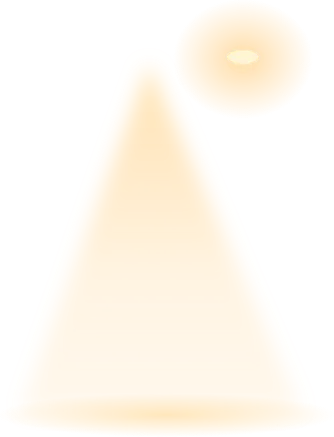
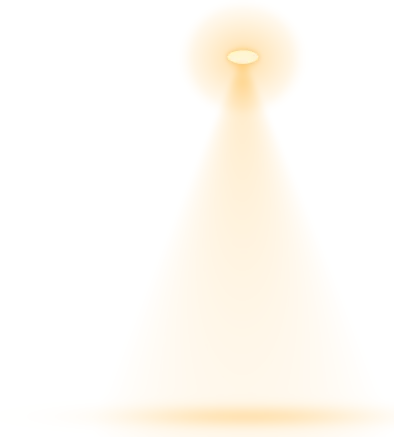
Tela inicial nova: barra no topo, cartão do mapa com 'Acessar mapa', arte e título 40 px abaixo (igual na tela de toque para começar); luz do poste sai da lâmpada; passo a passo da chefe adaptado (#142)
Claude-Session: https://claude.ai/code/session_015tfXN2LHrSJNSLNMARGbDc

diff --git a/js/47-trilha.js b/js/47-trilha.js
@@ -35,8 +35,8 @@ const stTxt=n=>n.soon?'Em breve':n.done?('✓ Concluído'+(n.nota?' · nota '+n.
 let Z=1,CX=217.5,CY=220,TOK=0,SY=280;
 const sleep=ms=>new Promise(r=>setTimeout(r,ms));
 const LOCK='<svg viewBox="0 0 24 24"><rect x="5" y="11" width="14" height="9" rx="2"/><path d="M8 11V8a4 4 0 018 0v3"/></svg>';
-function camApply(){const g=document.getElementById('trg');if(!g)return false;g.setAttribute('transform','translate('+(217.5-Z*CX)+','+(SY-Z*CY)+') scale('+Z+')');
- const d=.5+.8*Math.min(1,(Z-1)/3);document.querySelectorAll('#trg .tp').forEach(p=>{p.setAttribute('transform','translate('+p.dataset.x+','+p.dataset.y+') scale('+(d/Z)+')');p.style.setProperty('--lo',Z>2.4?1:0)});return true}
+function camApply(g,z,cx,cy,sy){g=g||document.getElementById('trg');if(!g)return false;z=z||Z;cx=cx==null?CX:cx;cy=cy==null?CY:cy;sy=sy||SY;g.setAttribute('transform','translate('+(217.5-z*cx)+','+(sy-z*cy)+') scale('+z+')');
+ const d=.5+.8*Math.min(1,(z-1)/3);g.querySelectorAll('.tp').forEach(p=>{p.setAttribute('transform','translate('+p.dataset.x+','+p.dataset.y+') scale('+(d/z)+')');p.style.setProperty('--lo',z>2.4?1:0)});return true}
 function camTo(z,x,y,ms){const my=++TOK;return new Promise(res=>{const z0=Z,x0=CX,y0=CY,t0=performance.now();const e=t=>t<.5?2*t*t:1-Math.pow(-2*t+2,2)/2;(function f(now){if(my!==TOK||!camApply()){res();return}const t=Math.min(1,(now-t0)/ms),k=e(t);Z=z0+(z-z0)*k;CX=x0+(x-x0)*k;CY=y0+(y-y0)*k;camApply();t<1?requestAnimationFrame(f):res()})(t0)})}
 function pinHTML(c,st){const k='#'+(st==='lk'?'3a3a42':st==='dn'?'3fbf72':'f0c75e');const lab=(c.side==='l'?-17:17),an=c.side==='l'?'end':'start';
  return `<g class="tp ${st}" id="trp${c.ci}" data-x="${c.x}" data-y="${c.y}" onclick="trPin(${c.ci})" style="--k:${k}"><circle class=pls r=13 /><clipPath id="trcp${c.ci}"><circle r="11"/></clipPath><circle class=pr r=13 /><image href="${capa(c.pin)}" x=-11 y=-11 width=22 height=22 clip-path="url(#trcp${c.ci})" preserveAspectRatio="xMidYMid slice"/><text class=pk y=4 text-anchor=middle font-size=12>${st==='lk'?'🔒':st==='dn'?'✓':''}</text><text class="tl s" x=${lab} y=-3 text-anchor=${an}>CAP. ${c.ci+1}</text><text class=tl x=${lab} y=8 text-anchor=${an}>${esc(c.n)}</text></g>`}
@@ -62,7 +62,9 @@ ${nc?`<button class="trgo nx" onclick="trCity(${nc.ci})"><span><small>PRÓXIMA C
 window.trMock=()=>{const L=trNodes(),dn=L.filter(n=>n.done).length,CS=cities(),nx=trNext(),t=(nx&&CS[nx.ci])||CS[0],nc=CS[t.ci+1]||CS[0];
  const map=mapHTML(CS,CS.length).replace('viewBox="0 0 435 560"','viewBox="0 0 435 330"');
  return `<div class="tmk tma"><div class=trh><div><b>${dn} de ${L.length}</b><small>etapas concluídas</small></div><span class=trinfo>i</span></div><div class=trmw>${map}</div><div class=trgo><span><small>VOCÊ PAROU EM</small><b>${esc(t.n)} (${t.uf})</b></span><em>${t.dn}/${t.ns.length+(t.soon?1:0)} · Entrar</em></div><div class="trgo nx"><span><small>PRÓXIMA CIDADE</small><b>${esc(nc.n)} (${nc.uf})</b></span><em>${nc.dn}/${nc.ns.length+(nc.soon?1:0)}</em></div></div>`};
-window.trMockCam=()=>{if(!document.querySelector('.tma #trg'))return;const CS=cities(),nx=trNext(),t=(nx&&CS[nx.ci])||CS[0];TOK++;SY=165;Z=3.6;CX=(t.x+312)/2;CY=(t.y+308)/2;camApply()};
+window.trMockCam=()=>{const CS=cities(),nx=trNext(),t=(nx&&CS[nx.ci])||CS[0];
+ document.querySelectorAll('.tma .trmw g[id=trg]').forEach(g=>camApply(g,3.6,(t.x+312)/2,(t.y+308)/2,165));
+ document.querySelectorAll('.hth g.trg').forEach(g=>camApply(g,3,(t.x+312)/2,(t.y+308)/2,165))};
 /* texto de ajuda: fica escondido atrás do botão "i" e abre num modal com fundo desfocado */
 window.trInfo=()=>{if(document.getElementById('trim'))return;const o=document.createElement('div');o.id='trim';o.setAttribute('role','dialog');o.setAttribute('aria-label','Como funciona a trilha');o.onclick=e=>{if(e.target===o)trInfoX()};
  o.innerHTML='<div class=trimc><small>TRILHA DE CASOS</small><h3>Como funciona</h3><p>Cada capítulo acontece numa <b>cidade do Brasil</b>. Toque numa cidade do mapa para ver os casos dela: casos comuns, rápidos, linha do tempo e o <b>Arquivo Reservado</b>, que fecha o capítulo.</p><p>Todas as cidades e casos estão abertos: escolha por onde começar. Qualquer caso concluído por outra via também conta na trilha.</p><button class=trplay onclick="trInfoX()">Entendi</button></div>';
@@ -103,8 +105,14 @@ window.trClose=()=>{const o=document.getElementById('trc');if(o)o.remove()};
 /* o capítulo some quando a tela do Arquivo/Trilha deixa de estar aberta (ex.: ao começar um caso) */
 {const _r=render;render=function(){const r=_r.apply(this,arguments);try{trMockCam()}catch(e){}const o=document.getElementById('trc');if(o&&!(MENU&&ARQ&&RQT===6))o.remove();const m=document.getElementById('trim');if(m&&!(MENU&&ARQ&&RQT===6))m.remove();return r}}
 
-/* botão principal da tela inicial: segue a trilha (no modo Sozinho) */
-window.trPlay=()=>{if(!solo())return '';const n=trNext();const pi='<span class=pi><svg viewBox="0 0 24 24"><path d="M7 4v16l13-8z"/></svg></span>';
- if(!n)return `<button class=play onclick="ARQ=1;RQT=6;render()">${pi}<span class=pt><small>TRILHA CONCLUÍDA</small><b>Rever o mapa</b></span></button>`;
- return `<button class=play onclick="trStart(${n.i})">${pi}<span class=pt><small>${n.p?'CONTINUAR':n.i===0?'COMECE POR AQUI':'PRÓXIMO CASO'}</small><b>${esc(n.t)}</b></span>${n.k==='c'&&n.p?`<span class=pp><i style="width:${n.p}%"></i></span>`:''}</button>`};
+/* tela inicial: barra no topo (investigador e atalhos) e cartão do mapa embaixo */
+const GALS='<svg viewBox="0 0 24 24"><circle cx="12" cy="9" r="6"/><path d="M8.5 14L7 22l5-3 5 3-1.5-8"/></svg>';
+window.trHomeTop=()=>{const nm=esc(((META.pl&&META.pl.n)||'Investigador').slice(0,14)),du=window.amMode&&amMode()!=='solo';
+ return `<div class=htop><button class=hinv onclick="plOpen()" aria-label="Investigador"><span class=hav>${av('det',30)}</span><span>${nm}</span></button><div class=hic><button class="${du?'on':''}" onclick="amDupla()" aria-label="Modo dupla">${eic('👥')}</button><button onclick="GAL=1;render()" aria-label="Galeria">${GALS}</button><button onclick="SET=1;render()" aria-label="Ajustes">${eic('⚙')}</button></div></div>`};
+window.trHomeCard=()=>{if(!solo()){const m=window.amMode?amMode():'rev',nme=(window.AMN&&AMN[m]&&AMN[m][1])||'Dupla';
+  return `<div class=hcard><span class="hth hdu">${eic('👥')}</span><div class=hct><small>MODO DUPLA</small><b>${esc(nme)}</b><span>Casos principais, rápidos e linha do tempo</span><button class=hgo onclick="ARQ=1;render()">ACESSAR CASOS</button></div></div>`}
+ const L=trNodes(),dn=L.filter(n=>n.done).length,CS=cities(),nx=trNext(),t=(nx&&CS[nx.ci])||CS[CS.length-1];
+ const map=mapHTML(CS,CS.length).replace('<svg id=trsvg viewBox="0 0 435 560"','<svg viewBox="0 0 435 330" preserveAspectRatio="xMidYMid slice"').replace('<g id=trg>','<g class=trg>');
+ return `<div class=hcard><span class=hth>${map}</span><div class=hct><small>${dn?'SEU MAPA':'COMECE POR AQUI'}</small><b>${esc(t.n)} (${t.uf})</b><span>${t.dn} de ${t.ns.length+(t.soon?1:0)} casos · ${dn} de ${L.length} no total</span><button class=hgo onclick="ARQ=1;RQT=6;render()">ACESSAR MAPA</button></div></div>`};
+window.trPlay=()=>trHomeCard();
 })();

diff --git a/js/22-onboarding.js b/js/22-onboarding.js
@@ -1,16 +1,15 @@
 PDX.chefe={e:'almond',n:'pointed',b:'arch',bt:.8,lp:1,mw:.95,sp:7.8,sk:'#d9b496',sh:'#b89478',hc:'#2a1d12',hs:'swept',bg:['#2a3a40','#0b151c'],deco:'',out:'blazer',oc:'#1d3a3f',oc2:'#ece7dc',ic:'#3a2a1c',age:47,g:'',ex:['lipstick:#8a3a44','earrg','smile'],ms:.6};VFEM.add('chefe');
 const ONTALK={talk:["Então é você. A Corregedoria disse que ia mandar alguém bom, e eu não costumo ouvir isso à toa.","Eu sou a superintendente Regina Vaz, chefe da Divisão de Homicídios do SISP, o Sistema de Investigação Policial. A partir de hoje, sou a sua chefe. E quem cobra relatório.","Aqui o trabalho é minucioso: cada caso chega com suspeitos mentindo e provas que ninguém olhou direito.","Antes de tudo, preciso registrar você no sistema."],talk2:["Prazer, {n}. Registro aberto.","Agora o crachá: o sistema precisa de uma foto sua. Escolha a sua aparência. Dá para mudar depois."]};
 const ONTOUR=[
-{s:'.play',t:"Este é o seu painel, {n}. Toque no nome do caso para seguir a trilha: ele leva direto à investigação da vez e lembra onde você parou."},
-{s:'.tl3 .tile:nth-child(1)',t:"O Arquivo é o mapa do Brasil: cada cidade tem os seus casos, e você segue de cidade em cidade. Vou mostrar como ele funciona."},
+{s:'.hcard',t:"Este é o seu painel, {n}. O cartão mostra a cidade onde você parou. Toque em Acessar mapa para continuar a investigação."},
 {a:1,s:'.tma .trmw',t:"Este é o mapa da trilha. Cada capítulo acontece numa cidade do Brasil, e o mapa mostra onde você parou."},
 {a:1,s:'.tma .trgo:not(.nx)',t:"Aqui fica a cidade atual. Toque para entrar e escolher o caso. Em cada cidade há casos comuns, rápidos, de linha do tempo e um Arquivo Reservado, que fecha o capítulo."},
 {a:1,s:'.tma .trgo.nx',t:"Aqui, a próxima cidade. Todas já estão abertas, então você pode seguir a ordem ou escolher por onde começar."},
 {a:1,s:'.tma .trinfo',t:"O botão i explica como a trilha funciona, sempre que você quiser rever."},
-{s:'.tl3 .tile:nth-child(2)',t:"Dupla: para investigar com outra pessoa, no mesmo celular ou em dois celulares."},
-{s:'.tl3 .tile:nth-child(3)',t:"Investigador: aqui você muda o seu visual quando quiser."},
-{s:'.tl3 .tile:nth-child(4)',t:"A Galeria reúne os selos. Eles premiam quem investiga a fundo e descobre os segredos de cada caso."},
-{s:'.tl3 .tile:nth-child(5)',t:"Em Ajustes ficam o som, a acessibilidade e o nível de ajuda do jogo. Seu progresso é salvo automaticamente."},
+{s:'.htop .hinv',t:"Investigador: aqui você muda o seu visual quando quiser."},
+{s:'.hic button:nth-child(1)',t:"Dupla: para investigar com outra pessoa, no mesmo celular ou em dois celulares."},
+{s:'.hic button:nth-child(2)',t:"A Galeria reúne os selos. Eles premiam quem investiga a fundo e descobre os segredos de cada caso."},
+{s:'.hic button:nth-child(3)',t:"Em Ajustes ficam o som, a acessibilidade e o nível de ajuda do jogo. Seu progresso é salvo automaticamente."},
 {m:1,t:"Dentro de um caso, o seu celular é a sua central de trabalho. Vou mostrar os aplicativos."},
 {m:1,s:'[data-k=locations]',t:"Locais: você vai até o cenário e coleta as provas. Toque nos objetos e colete tudo o que encontrar."},
 {m:1,s:'[data-k=lab]',t:"Perícia: depois de coletar, analise cada prova. Muita coisa só aparece aqui."},
@@ -21,7 +20,7 @@ const ONTOUR=[
 {m:1,s:'[data-k=solve]',t:"Prisão: com as deduções feitas, acuse o culpado. Errar custa caro. Com três erros, o caso é arquivado."},
 {m:1,s:'[data-k=hint]',t:"Dicas: se travar, toque aqui ou na lâmpada, no topo de qualquer aplicativo. No modo Guiado a dica não custa tempo; no Clássico custa 20 minutos do relógio."},
 {t:"A ordem é sempre a mesma: coletar, analisar, conversar e deduzir. Os aplicativos vão se liberando a cada etapa."},
-{s:'.play',last:1,t:"Vamos começar, {n}? Seu primeiro caso é um treinamento: {caso}. É só tocar no nome do caso quando estiver pronto."}];
+{s:'.hgo',last:1,t:"Vamos começar, {n}? Seu primeiro caso é um treinamento: {caso}. Toque em Acessar mapa e, na cidade, em Entrar para começar."}];
 const onbN=()=>esc((ONN||(META.pl&&META.pl.n)||'detetive').trim()||'detetive');
 const onbT=t=>t.replace(/\{n\}/g,onbN()).replace(/\{caso\}/g,esc(CASES[0].n));
 const onbBust=sz=>av('chefe',sz);
@@ -42,5 +41,5 @@ if(ONS==='name')return `<div class=onr><div class=obg></div><div class=onm><div 
 if(ONS==='tour'){const st=ONTOUR[ONI]||ONTOUR[0],mock=st.a&&window.trMock?trMock():st.m?`<div class=tmk><div class=pgr>${[['locations'],['lab'],['interrogate'],['calls'],['caderno'],['mindmap'],['solve'],['hint']].map(([k])=>{const a=APPS.find(x=>x[0]===k);return `<button class=pap data-k=${k}><i class=pic style="background:linear-gradient(180deg,${a[2]},${a[3]});--ic:${a[3]}"><svg viewBox="0 0 24 24">${PIC[k]}</svg></i><span>${a[1]}</span></button>`}).join('')}</div></div>`:'';
 return `<div class="onr otr" onclick="onbNext()">${st.m||st.a||!st.s?'<div class=obg></div>':''}${mock}${st.s?`<div class="spt ${st.m||st.a?'nos':''}" data-s="${st.s}"></div>`:''}<div class=odlg><div class=oav>${onbBust(54)}</div>${nm}<p>${esc(onbT(st.t))}</p><div class=onx><span class=odots>${ONTOUR.map((_,i)=>`<i class="${i===ONI?'on':''}"></i>`).join('')}</span><button class=oskip onclick="event.stopPropagation();onbEnd()">Pular</button></div></div></div>`}
 return ''}
-function onbPos(){const sp=document.querySelector('.spt'),d=document.querySelector('.otr .odlg,.onr>.odlg');if(!sp)return;const u=$('#ui').getBoundingClientRect(),t=document.querySelector(sp.dataset.s);if(!t){sp.style.display='none';return}const r=t.getBoundingClientRect(),pd=6;sp.style.left=(r.left-u.left-pd)+'px';sp.style.top=(r.top-u.top-pd)+'px';sp.style.width=(r.width+pd*2)+'px';sp.style.height=(r.height+pd*2)+'px';if(d)d.classList.toggle('top',!sp.classList.contains('nos')&&(r.top-u.top+r.height/2)>u.height*.5)}
+function onbPos(){const sp=document.querySelector('.spt'),d=document.querySelector('.otr .odlg,.onr>.odlg');if(!sp)return;const u=(document.getElementById('app')||$('#ui')).getBoundingClientRect(),t=document.querySelector(sp.dataset.s);if(!t){sp.style.display='none';return}const r=t.getBoundingClientRect(),pd=6;sp.style.left=(r.left-u.left-pd)+'px';sp.style.top=(r.top-u.top-pd)+'px';sp.style.width=(r.width+pd*2)+'px';sp.style.height=(r.height+pd*2)+'px';if(d)d.classList.toggle('top',!sp.classList.contains('nos')&&(r.top-u.top+r.height/2)>u.height*.5)}
 /* ===== Provas interativas: vídeo, livro, coleta e puzzles ===== */

diff --git a/js/21-menu.js b/js/21-menu.js
@@ -22,6 +22,6 @@ const secs=Object.keys(seas).map(n=>{const ks=seas[n],vis=ks.filter(k=>pass(CASE
 $('#ui').innerHTML=`<div class=hmw>${rain}<div class=lamp></div><div class=hm2 style="padding-top:12px"><div class=arh>${ib('back','Voltar','ARQ=0;render()')}<div style="flex:1"><h2>Arquivo de Casos</h2><small class=mut>${nd} de ${CASES.length} resolvidos</small></div></div>${rqTabs()}${RQT?'':`<div class="bar" style="margin:10px 0 12px"><i style="width:${Math.round(nd/CASES.length*100)}%"></i></div>`}${RQT===6?trList():RQT===5?espList():RQT>=3?(RQT===4?vsList():dcList()):RQT===2?tlList():RQT?rqList():`<div class=loc style="margin:0 0 4px;overflow-x:auto">${[['all','Todos'],['run','Em andamento'],['new','Novos'],['done','Resolvidos']].map(x=>`<button class="chip ${AF===x[0]?'on':''}" onclick="AF='${x[0]}';render()">${x[1]}</button>`).join('')}</div>${secs||'<p class=mut style="text-align:center;margin-top:40px">Nenhum caso nesta lista.</p>'}`}<div style="height:16px"></div></div></div>`;return}
 let cur=CASES.findIndex(c=>c.id===META.last&&P(c)&&!D(c));if(cur<0)cur=CASES.findIndex((c,i)=>open(i)&&!D(c));
 const cc=cur>=0?CASES[cur]:null,cp=cc?P(cc):0;if(cc)warmCase(cc.id);
-$('#ui').innerHTML=`<div class="hmw hmh">${rain}<div class=lamp></div><div class=hm2 style="padding:0"><div class=hero>${homeArt()}<div class=htl><b class=hts>SISP</b><i class=hrl></i><div class=nsub>SISTEMA DE INVESTIGAÇÃO POLICIAL</div></div></div><div class=hbt>${(window.trPlay&&trPlay())||(cc?`<button class=play onclick="ptmStart('${cc.id}')"><span class=pi><svg viewBox="0 0 24 24"><path d="M7 4v16l13-8z"/></svg></span><span class=pt><small>${cp?'CONTINUAR INVESTIGAÇÃO':cc.tut?'COMECE POR AQUI':'PRÓXIMO CASO'}</small><b>${cc.n}</b></span>${cp?`<span class=pp><i style="width:${cp}%"></i></span>`:''}</button>`:`<button class=play onclick="ARQ=1;render()"><span class=pi><svg viewBox="0 0 24 24"><path d="M7 4v16l13-8z"/></svg></span><span class=pt><small>TODOS RESOLVIDOS</small><b>Rever o arquivo</b></span></button>`)}<div class=tl3><button class=tile onclick="ARQ=1;render()"><span class=ti>${eic('📁')}</span>Arquivo<small>${nd}/${CASES.length}</small></button><button class=tile onclick="amDupla()"><span class=ti>${eic('👥')}</span>Dupla<small>${window.amMode&&amMode()!=='solo'?'Ativo':'Modo'}</small></button><button class=tile onclick="plOpen()"><span class=ti><span class=idp2 style="width:32px;height:32px">${av('det',32)}</span></span>Investigador<small>Avatar</small></button><button class=tile onclick="GAL=1;render()"><span class=ti><svg viewBox="0 0 24 24" width=26 height=26 fill="none" stroke="currentColor" stroke-width=1.8 stroke-linecap=round stroke-linejoin=round><circle cx=12 cy=9 r=6 /><path d="M8.5 14L7 22l5-3 5 3-1.5-8" /></svg></span>Galeria<small>${galn()} selos</small></button><button class=tile onclick="SET=1;render()"><span class=ti>${eic('⚙')}</span>Ajustes<small>Som</small></button></div></div></div></div>`}
+$('#ui').innerHTML=`<div class="hmw hmh">${rain}<div class=lamp></div>${window.trHomeTop?trHomeTop():''}<div class=hm2 style="padding:0"><div class=hero>${homeArt()}<div class=htl><b class=hts>SISP</b><i class=hrl></i><div class=nsub>SISTEMA DE INVESTIGAÇÃO POLICIAL</div></div></div><div class=hbt>${window.trHomeCard?trHomeCard():''}</div></div></div>`}
 
 /* ===== Caso 5: A Última Vitrine ===== */

diff --git a/css/17-inicio.css b/css/17-inicio.css
@@ -1,0 +1,17 @@
+/* Tela inicial: barra no topo + cartão do mapa embaixo; arte e título mais abaixo */
+.htop{position:absolute;z-index:30;top:calc(14px + env(safe-area-inset-top,0px));left:14px;right:14px;display:flex;justify-content:space-between;align-items:center;pointer-events:none}
+.htop button{pointer-events:auto}
+.hinv,.hic button{background:rgba(9,13,19,.72);-webkit-backdrop-filter:blur(14px);backdrop-filter:blur(14px);border:1px solid #ffffff26;color:#e8e2d4;cursor:pointer}
+.hinv{display:flex;align-items:center;gap:8px;padding:5px 14px 5px 5px;border-radius:999px;font:700 12px Arial,Helvetica,sans-serif}
+.hav{width:30px;height:30px;border-radius:50%;overflow:hidden;background:#eaa73c33;display:block;flex:none}.hav svg{width:100%;height:100%;display:block}
+.hic{display:flex;gap:8px}.hic button{width:40px;height:40px;border-radius:50%;display:grid;place-items:center;padding:0}
+.hic button svg{width:20px;height:20px;fill:none;stroke:currentColor;stroke-width:1.8;stroke-linecap:round;stroke-linejoin:round}.hic button .ei{width:20px;height:20px}.hic button.on{border-color:#eaa73c;color:#eaa73c}
+.hmh .hero .htl{transform:translateY(40px)}
+.hmh .hbt{padding:0 16px calc(34px + env(safe-area-inset-bottom,0px));margin-top:auto;text-align:left}
+.hcard{display:flex;gap:14px;align-items:center;padding:12px;border-radius:22px;background:rgba(9,13,19,.78);-webkit-backdrop-filter:blur(14px);backdrop-filter:blur(14px);border:1px solid #ffffff26;box-shadow:0 14px 34px #000a}
+.hth{position:relative;overflow:hidden;width:104px;height:104px;border-radius:16px;flex:none;background:radial-gradient(90% 70% at 50% 35%,#1b1b22,#08080a)}.hth svg{position:absolute;inset:0;width:100%;height:100%;display:block}
+.hth .st{fill:#1c1c23;stroke:#3d3d48;stroke-width:.5}.hth .st.se{fill:#2b2412;stroke:#b08a2e;stroke-width:.7}.hth .tp .tl{opacity:1}
+.hdu{display:grid;place-items:center;color:#eaa73c}.hdu .ei{width:44px;height:44px}
+.hct{flex:1;min-width:0}.hct small{display:block;font:700 9.5px Arial,Helvetica,sans-serif;letter-spacing:.16em;color:#eaa73c}.hct b{display:block;font:600 20px Georgia,serif;color:#f4eddc;margin:2px 0}.hct>span{display:block;font:400 12px Arial,Helvetica,sans-serif;color:#b9b2a2;margin-bottom:9px}
+.hgo{width:100%;padding:11px;border:0;border-radius:14px;background:linear-gradient(180deg,#f0b84c,#d9902a);color:#1a1200;font:800 13px Arial,Helvetica,sans-serif;letter-spacing:.06em;cursor:pointer}.hgo:active{filter:brightness(.92)}
+body.onsp .htop,body.onsp .hcard{visibility:hidden}body.onrv .hcard{animation:onrs .7s cubic-bezier(.2,.9,.3,1) both}

diff --git a/js/23a-home.js b/js/23a-home.js
@@ -10,7 +10,7 @@ const HOMEL=[
 ['meio',0.3,0.0,33.58,100.0,33.395],
 ['proximos',0.55,0.0,23.086,100.0,43.889],
 ['rua',0.7,0.0,66.975,100.0,33.025],
-['luz',0.8,15.648,41.79,30.926,26.975],
+['luz',0.8,15.648,41.79,36.48,26.975],
 ['poste',0.8,27.778,43.704,12.778,23.827],
 ['inv',0.85,34.074,49.63,9.259,18.148]];
 // Garoa: n=quantidade, vmin/vs=velocidade, lmin/ls=comprimento, wk/ak=espessura e brilho,
@@ -25,7 +25,7 @@ return `<div class=hstage aria-hidden=true>${L('ceu')}${L('distantes')}${L('meio
 function homeGeom(){const h=HM.hero,r=h.getBoundingClientRect(),hw=h.clientWidth||r.width,hh=h.clientHeight||r.height;
 if(!hw||!hh)return;HM.hw=hw;HM.hh=hh;
 h.style.setProperty('--hs',Math.min(1,Math.max(.78,hh/560)).toFixed(3));
-const k=1.06,sw=Math.max(hw,hh/1.5)*k,sh=sw*1.5,lampY=Math.max(170,hh*.6),oy=Math.min(hh*.14,Math.max(hh-sh,lampY-sh*.452)),ox=(hw-sw)/2;
+const k=1.06,sw=Math.max(hw,hh/1.5)*k,sh=sw*1.5,lampY=Math.max(170,hh*.6),oy=Math.min(hh*.14,Math.max(hh-sh,lampY-sh*.452))+(document.querySelector('.hmh')?40:0),ox=(hw-sw)/2;
 HM.sw=sw;HM.sh=sh;HM.ox=ox;HM.oy=oy;
 const s=HM.st.style;s.width=sw+'px';s.height=sh+'px';s.left=ox+'px';s.top=oy+'px';
 const dpr=Math.min(window.devicePixelRatio||1,2);const cv=HM.cv;cv.width=Math.round(hw*dpr);cv.height=Math.round(hh*dpr);cv.dataset.dpr=dpr

diff --git a/index.html b/index.html
@@ -32,6 +32,7 @@
 <link rel="stylesheet" href="css/14-vs.css">
 <link rel="stylesheet" href="css/15-reservado.css">
 <link rel="stylesheet" href="css/16-trilha.css">
+<link rel="stylesheet" href="css/17-inicio.css">
 </head>
 <body><!-- v10 -->
 <div class="app" id="app"><div id="ui"></div><div id="ntw"><div id="nc"></div><div id="tc"></div></div></div>
